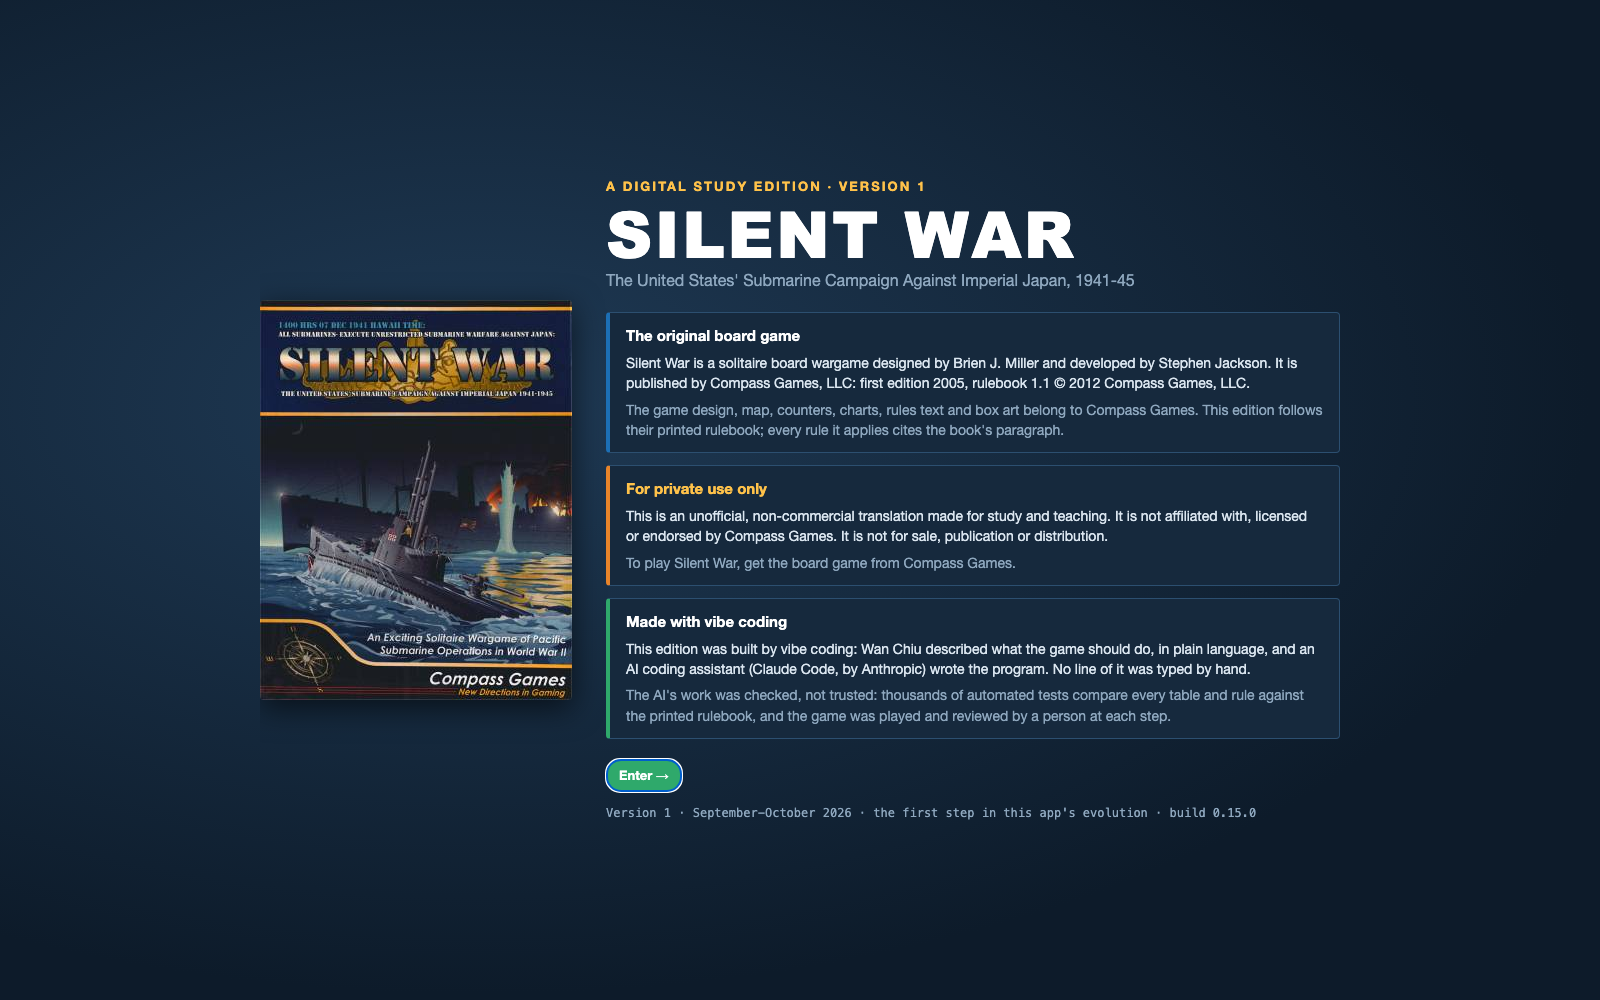
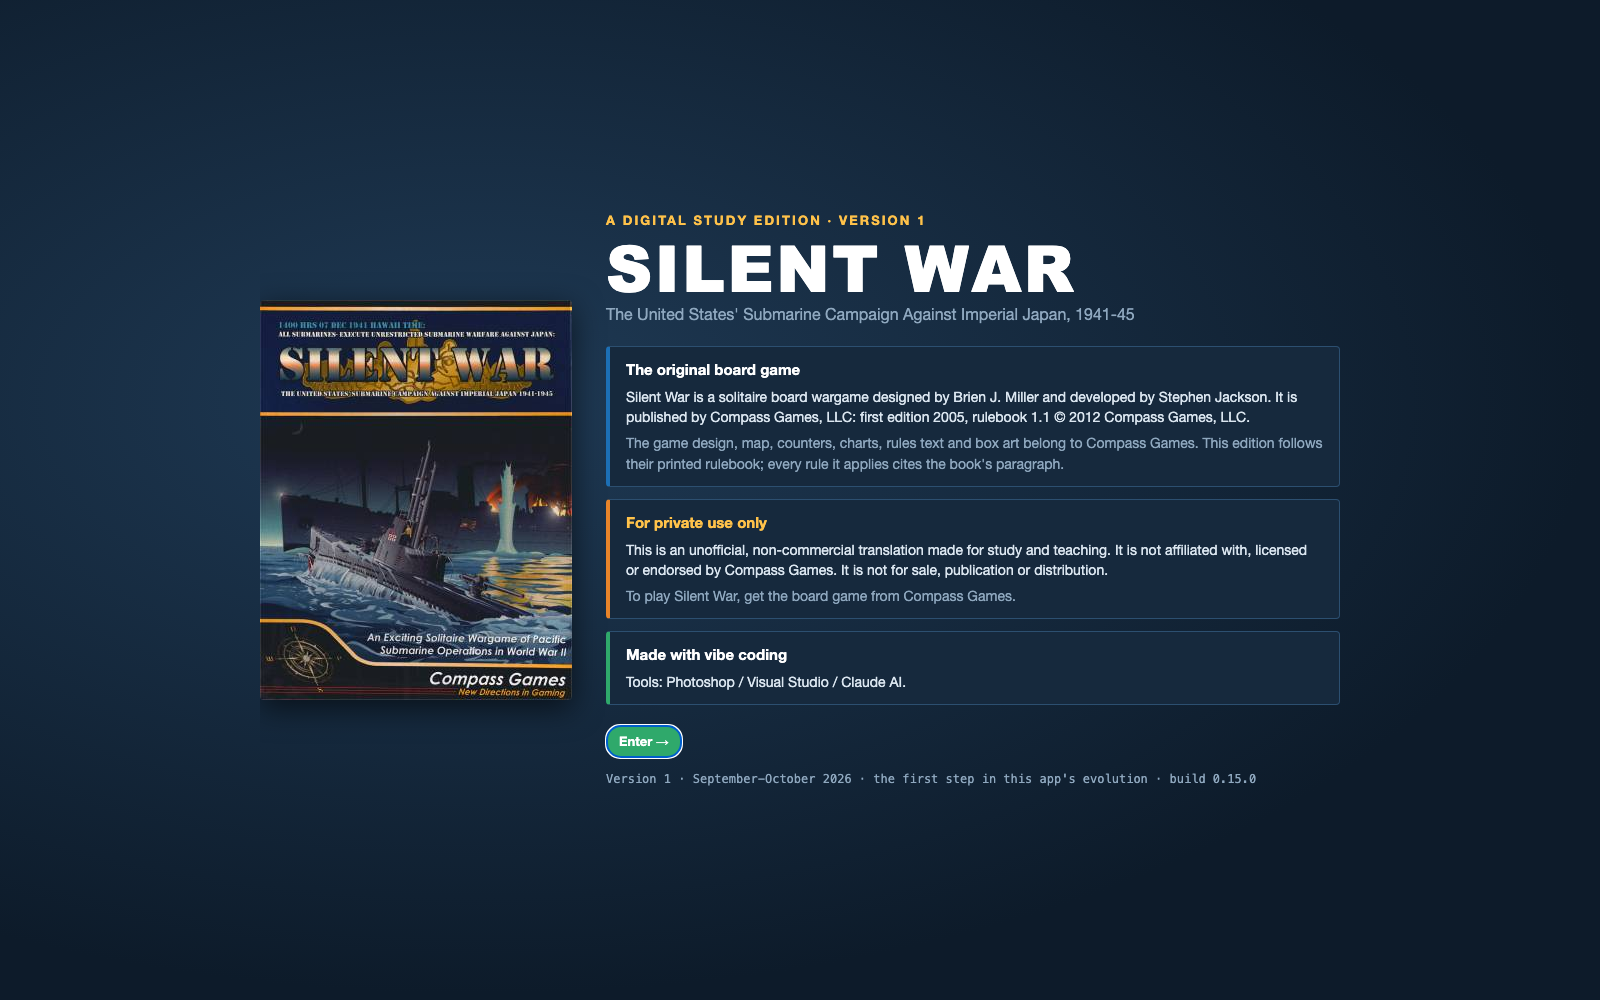
Title screen: vibe-coding box lists tools only

Changed region(s): [[0.375, 0.186, 0.8438, 0.837], [0.5938, 0.775, 0.7188, 0.837], [0.75, 0.806, 0.7812, 0.837]]

diff --git a/apps/game/swui.js b/apps/game/swui.js
@@ -3213,7 +3213,7 @@
           el('section', { class: 'ts-box ts-private' }, [
             el('h2', { text: T.privacy.head }), el('p', { text: T.privacy.text }), el('p', { class: 'ts-dim', text: T.privacy.buy })]),
           el('section', { class: 'ts-box ts-vibe' }, [
-            el('h2', { text: T.vibe.head }), el('p', { text: T.vibe.text }), el('p', { class: 'ts-dim', text: T.vibe.check })]),
+            el('h2', { text: T.vibe.head }), el('p', { text: T.vibe.text })]),
           el('div', { class: 'pal-buttons' }, [el('button', { type: 'button', class: 'helm suggest ts-go', text: 'Enter →', onclick: close })]),
           el('div', { class: 'ts-foot', text: T.foot + ' · build ' + (window.SW_VERSION || '') })
         ])

diff --git a/apps/game/data/sw_intro.js b/apps/game/data/sw_intro.js
@@ -127,10 +127,7 @@
     },
     vibe: {
       head: 'Made with vibe coding',
-      text: 'This edition was built by vibe coding: Wan Chiu described what the game should do, in plain language, and an AI ' +
-            'coding assistant (Claude Code, by Anthropic) wrote the program. No line of it was typed by hand.',
-      check: 'The AI\'s work was checked, not trusted: thousands of automated tests compare every table and rule against the ' +
-             'printed rulebook, and the game was played and reviewed by a person at each step.'
+      text: 'Tools: Photoshop / Visual Studio / Claude AI.'
     },
     foot: 'Version 1 · September-October 2026 · the first step in this app\'s evolution'
   };

diff --git a/PROGRESS.md b/PROGRESS.md
@@ -6,7 +6,7 @@
   (designer Brien J. Miller, developer Stephen Jackson, Compass Games, 2005; rulebook 1.1 © 2012), a "For private use only"
   notice (unofficial, not affiliated or endorsed, not for sale or distribution), and a "Version 1" label for the evolution talk.
   Enter, Space, Esc or the button dismisses it; About → "Show the title screen" brings it back. Text in data/sw_intro.js.
-- Title screen also says it was made with vibe coding (Wan directing Claude Code; checked by tests and play).
+- Title screen also says it was made with vibe coding (tools: Photoshop / Visual Studio / Claude AI).
 - Decisions: skipped by ?brief=0 and ?seed= links, like the Welcome; the build number stays 0.15.0.
 - Verified: node --check; unit suites 0 failed; first_hour_verify 55 (3 new title checks), phase9 31, learn 233, 0 console errors.
 - GitHub: private repo ProfChiu/SilentWar_V1 (main + tag v1.0). For the demo: make public, enable Pages, delete repo after.
